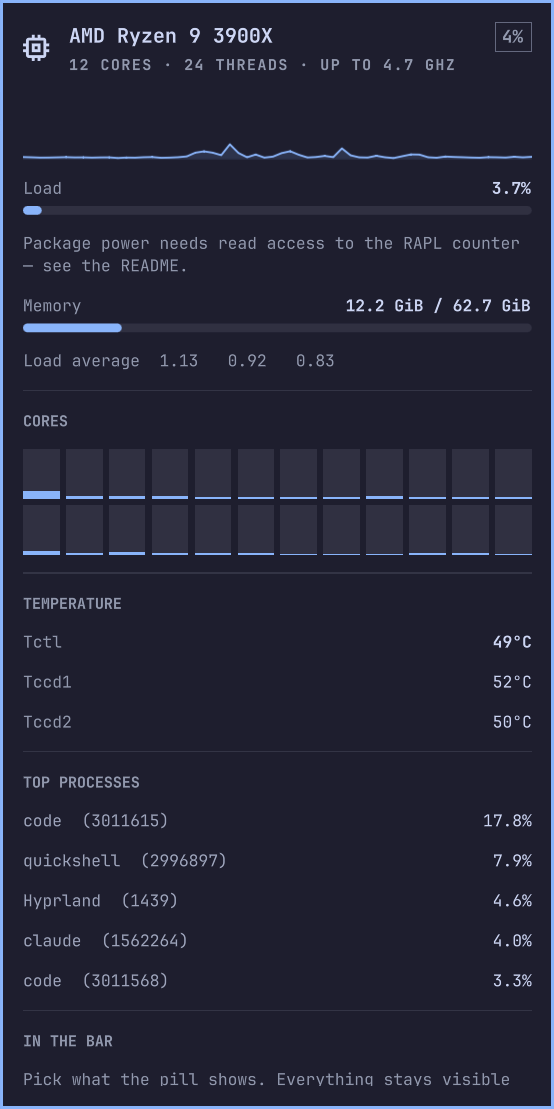
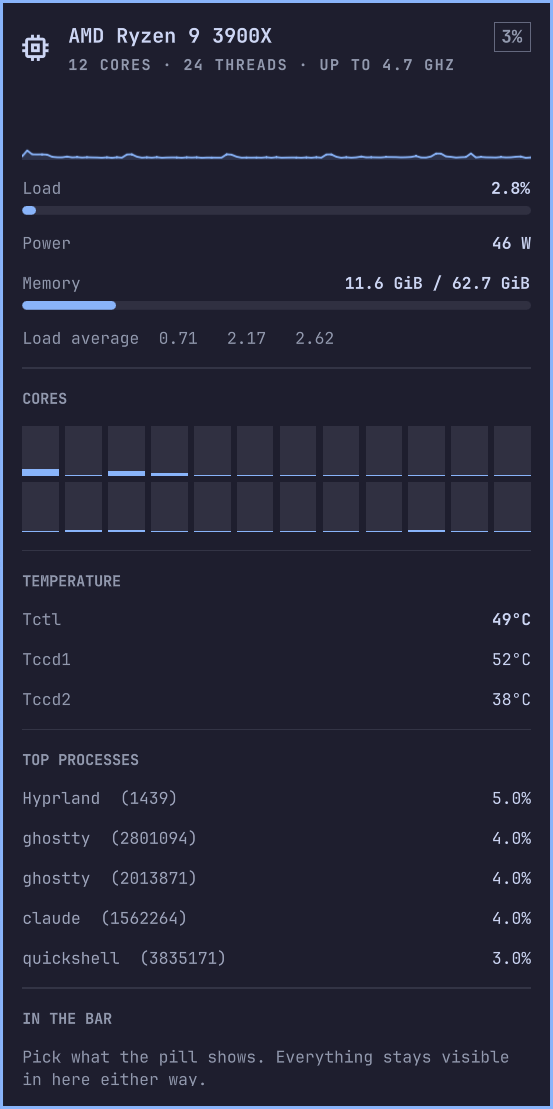
Refresh the submission kit
Screenshots retaken against the current panels — the CPU one now shows the
power row and the process-scale section, the network one its sparklines and
reordered layout. READMEs describe what each panel actually contains now,
and the submission drafts match.

diff --git a/docs/SUBMISSION-DRAFT.md b/docs/SUBMISSION-DRAFT.md
@@ -1,5 +1,5 @@
 <!--
-Marketplace submission for https://plugins.omarchy.org — unsubmitted draft.
+Marketplace submission for https://plugins.omarchy.org — UNSUBMITTED DRAFT.
 Before submitting: push the repo and tag v1.0.0, strip this comment, then:
 
   gh issue create --repo HANCORE-linux/omarchy-plugin-marketplace \
@@ -24,20 +24,25 @@ _No response_
 
 ### Maintainer notes
 
-CPU load, temperature and clock in the bar; a load graph, a bar per hardware
-thread, every temperature sensor the kernel exposes, memory, load average and
-the busiest processes in the panel. Middle-click drops into btop.
+Load, temperature and clock in the bar; in the panel a load graph, a bar per
+hardware thread, every CPU temperature sensor the kernel exposes, memory, load
+average and the busiest processes. Middle-click opens btop.
 
-Everything comes from `/proc` and `/sys` — no daemon, no root, no network, no
-external binaries. Two standard-library Python scripts in `bin/`, one of which
-imports the other in-process so a poll costs a single interpreter start. The
-only thing written outside the plugin folder is a lock and a sample-state file
-in `$XDG_RUNTIME_DIR`, so `omarchy plugin remove` is a clean uninstall.
+Process CPU can be shown as a share of the whole chip (everything at full tilt
+sums to 100%) or per core, the `top` convention where one busy thread reads
+100%. The maximum shown adapts to the machine's thread count.
 
-Package power is read from RAPL when the kernel allows it. On a stock kernel
-`energy_uj` is root-only (the PLATYPUS mitigation, CVE-2020-8694), so the
-power readings are simply absent and the panel says so rather than asking for
-privileges. The plugin never escalates and never asks for sudo.
+Everything comes from `/proc` and `/sys`. Two standard-library Python scripts
+in `bin/`, one importing the other in-process so a poll costs a single
+interpreter start. No daemon, no root, no network, no external binaries. The
+only writes outside the plugin folder are a lock and a sample-state file in
+`$XDG_RUNTIME_DIR`, so removal is clean.
+
+Package power is optional and off by default. It is read from the kernel's
+RAPL energy counter, which most kernels ship root-only as the mitigation for
+CVE-2020-8694; without access the plugin shows no power at all rather than
+estimating, and never asks for elevated privileges. The README documents the
+one udev rule that grants it, what that trades away, and how to undo it.
 
 One of a trio with omarchy-gpu and omarchy-network-speed, which share the same
 panel layout and controls.

diff --git a/README.md b/README.md
@@ -65,8 +65,11 @@ omarchy-shell shell toggle dansmith888.cpu
 | **Load / Memory** | Total CPU load and used RAM, with the 1/5/15 load average underneath |
 | **Cores** | One bar per hardware thread; hover for the number |
 | **Temperature** | Every label the CPU's hwmon reports (Tctl, Tccd1, …), headline one in bold |
-| **Top processes** | Busiest processes since the last sample, as a share of one core (like `top`) |
+| **Top processes** | Busiest processes since the last sample, as a share of the whole chip or of one core |
 | **In the bar** | Which readings the pill shows, refresh rate, °C/°F, graph history |
+| **Process CPU scale** | Whole CPU · 100% (everything at full tilt sums to 100%) or Per core · 2400% (what `top` and `htop` show). The maximum is your machine's thread count × 100 |
+| **Power** | Package watts when the energy counter is readable — optional, see below |
+| **Layout** | Pin the pill to a fixed width, or leave it to size itself |
 | **Warning & alert** | Two thresholds and a color each, taken from your live Omarchy theme; the pill, hero mark and core bars follow them |
 
 Settings are stored inline on the widget's `~/.config/omarchy/shell.json`
